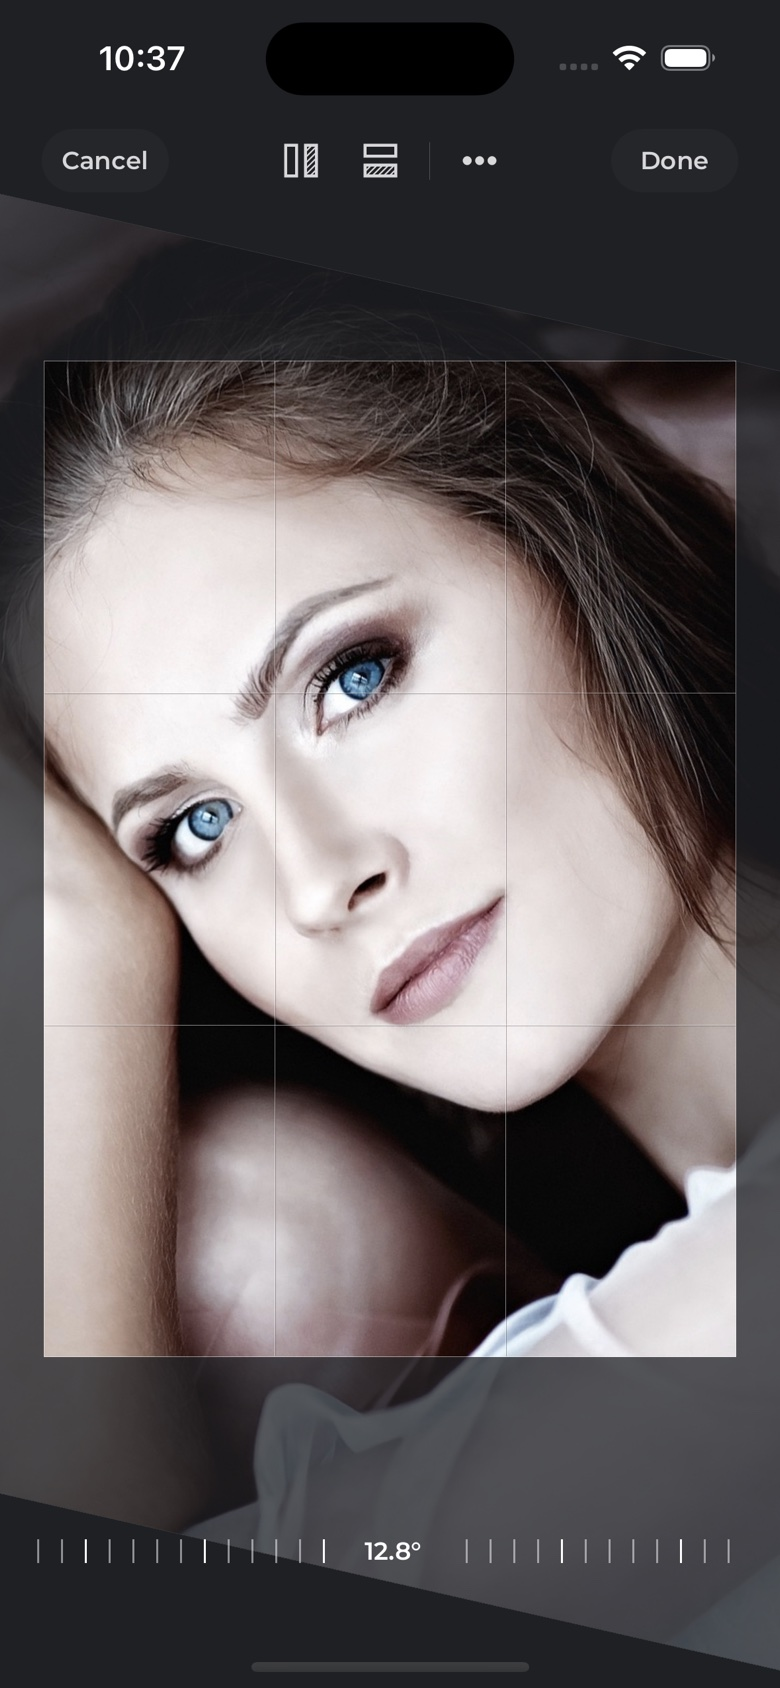
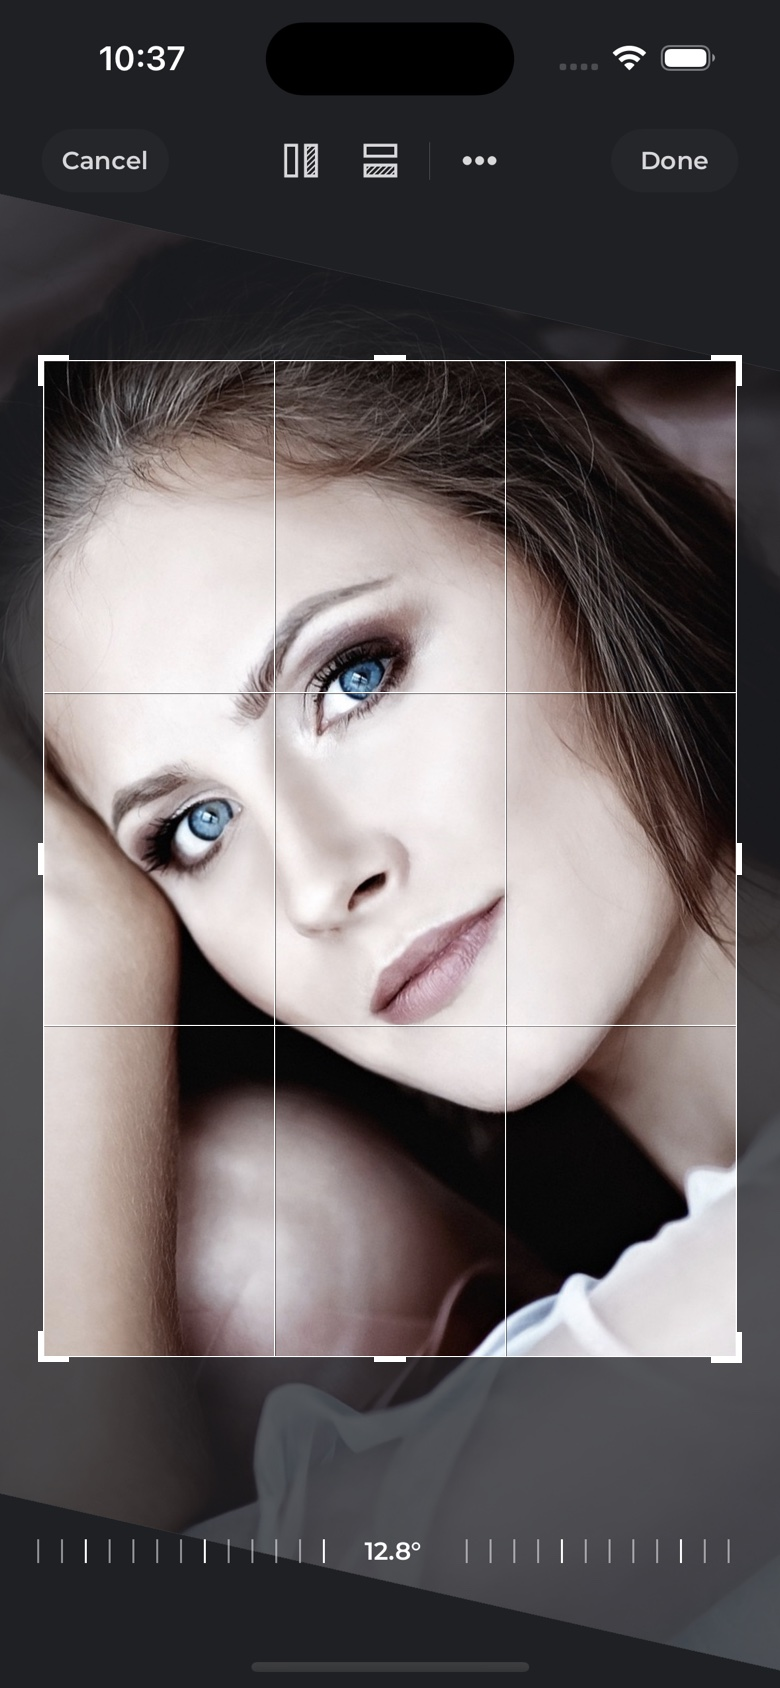
Updated guides and features

diff --git a/docs/features/index.html b/docs/features/index.html
@@ -43,7 +43,7 @@
                 <h1>Features</h1>
             </section>
             <section>
-                <p>Updated: Jul 1, 2024</p>
+                <p>Updated: Dec 19, 2024</p>
             </section>
         </div>
     </nav>
@@ -350,47 +350,27 @@
                 </aside>
             </div>
             <div class="version">
-                <h5>v1.2.X</h5>
-                <p>Updated: Jul 1, 2024</p>
-            </div>
-            <ul class="ddmenu">
-                <li><h4>Add ability to ZIP TIFF image when sharing.</h4>
-                    <div class="ddcontent">
-                        <div>
-                            <p>Add the option to create a ZIP archive from exported TIFF images to share as a single ZIP file.</p>
-                        </div>
-                    </div>
-                </li>
-            </ul>
-            <div class="version">
                 <h5>v1.3.X</h5>
-                <p>Updated: Jun 14, 2024</p>
+                <p>Updated: Dec 19, 2024</p>
             </div>
             <ul class="ddmenu">
-                <li><h4>Add free photo rotation during page editing</h4>
+                <li><h4>Add corner radius support for photos</h4>
                     <div class="ddcontent">
                         <div>
-                            <p>Add feature to allow free 360° photo rotation on page editing screen using selected photo markers.</p>
+                            <p>Add feature to specify corner radius for single photo or set of photos.</p>
                         </div>
                     </div>
                 </li>
             </ul>
             <div class="version">
                 <h5>v2.X.X</h5>
-                <p>Updated: Dec 03, 2023</p>
+                <p>Updated: Dec 19, 2024</p>
             </div>
             <ul class="ddmenu">
                 <li><h4>Add native iPad support</h4>
                     <div class="ddcontent">
                         <div>
                             <p>Add support for iPad native UI with all its features, including split screen, drag & drop, and others.</p>
-                        </div>
-                    </div>
-                </li>
-                <li><h4>Add 'Auto to Cut' layout mode</h4>
-                    <div class="ddcontent">
-                        <div>
-                            <p>Make it possible to choose new 'Auto to Cut' layout mode for automatic photo arrangement that makes it more convenient to cut physical photos after printing.</p>
                         </div>
                     </div>
                 </li>
@@ -431,6 +411,27 @@
                     <div class="ddcontent">
                         <div>
                             <p>Add feature to create, load, and share project templates that store complete layouts for all project pages.</p>
+                        </div>
+                    </div>
+                </li>
+                <li><h4>Add 'Auto to Cut' layout mode</h4>
+                    <div class="ddcontent">
+                        <div>
+                            <p>Make it possible to choose new 'Auto to Cut' layout mode for automatic photo arrangement that makes it more convenient to cut physical photos after printing.</p>
+                        </div>
+                    </div>
+                </li>
+                <li><h4>Add free photo rotation during page editing</h4>
+                    <div class="ddcontent">
+                        <div>
+                            <p>Add feature to allow free 360° photo rotation on page editing screen using selected photo markers.</p>
+                        </div>
+                    </div>
+                </li>
+                <li><h4>Add ability to ZIP TIFF image when sharing.</h4>
+                    <div class="ddcontent">
+                        <div>
+                            <p>Add the option to create a ZIP archive from exported TIFF images to share as a single ZIP file.</p>
                         </div>
                     </div>
                 </li>

diff --git a/docs/guides/index.html b/docs/guides/index.html
@@ -43,7 +43,7 @@
                 <h1>Guides</h1>
             </section>
             <section>
-                <p>Updated: Jul 1, 2024</p>
+                <p>Updated: Dec 19, 2024</p>
             </section>
         </div>
     </nav>
@@ -232,6 +232,7 @@
                 <h3>Edit selected photo</h3>
                 <ol class="steps">
                     <li>Use standard pinch and pan gestures to scale and position the photo inside the crop frame.</li>
+                    <li>Move crop markers to update the crop frame of the photo.</li>
                     <li>Move the bottom slider to rotate the photo in the range of 0 - 360 degrees.</li>
                     <li>Tap the <span class="inline-action inline-image-fliph">Flip </span> button on the top bar to flip the photo horizontally.</li>
                     <li>Tap the <span class="inline-action inline-image-flipv">Flip </span> button on the top bar to flip the photo vertically.</li>
